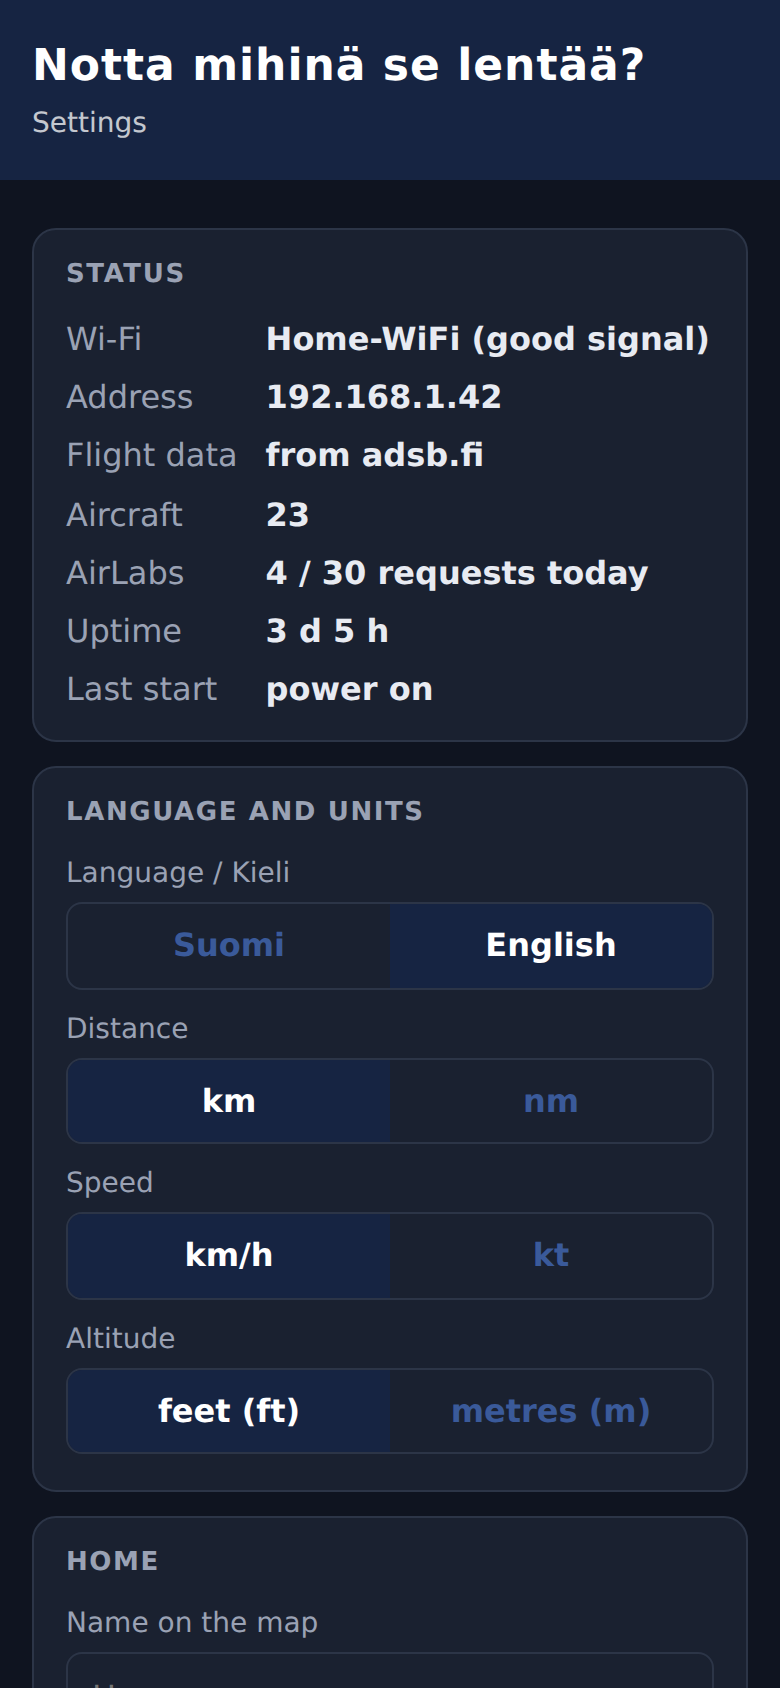
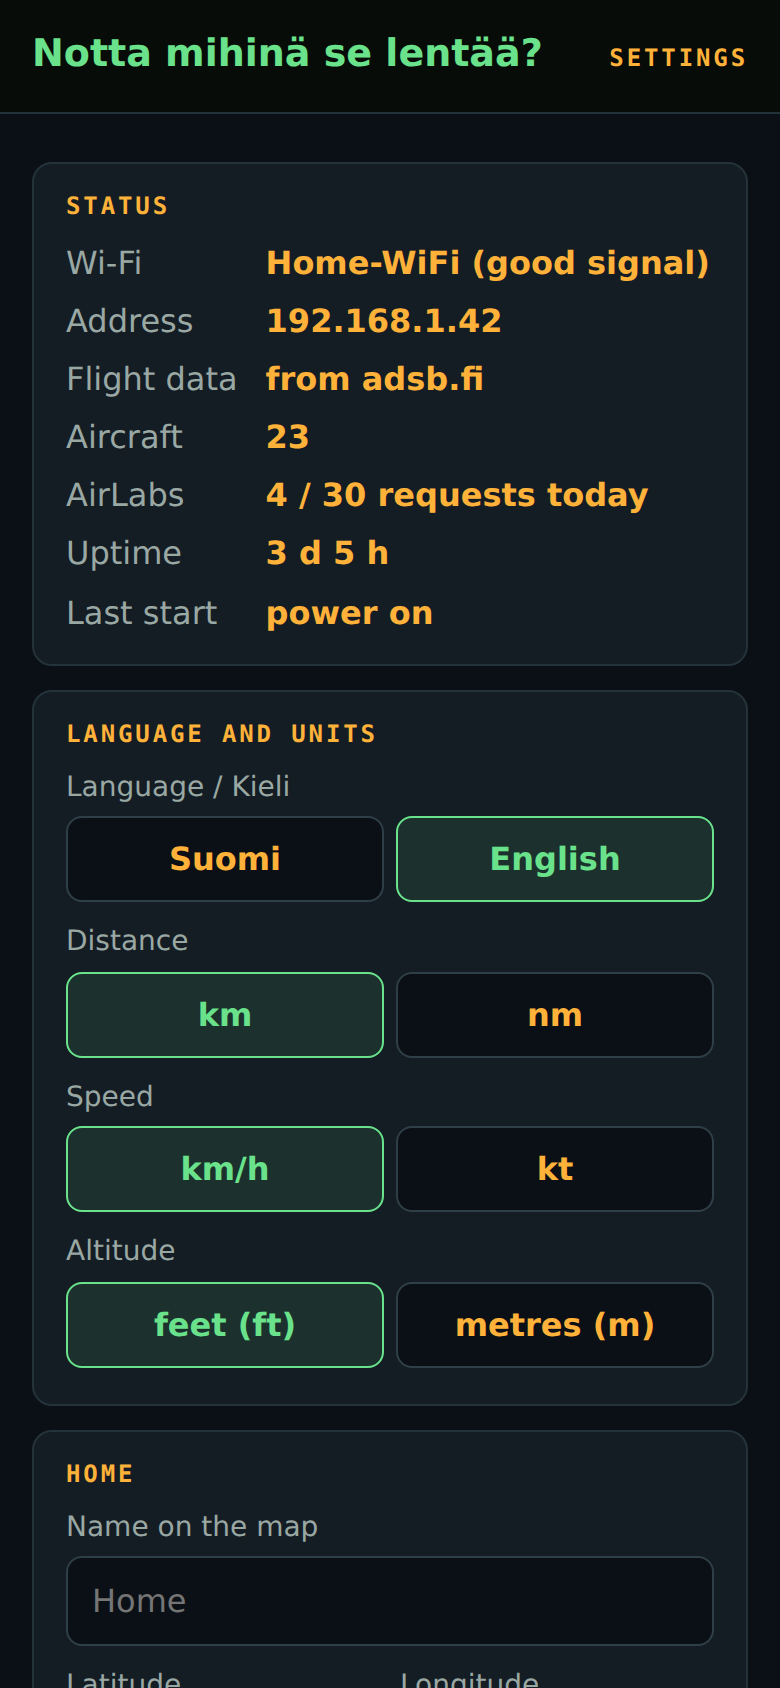
Phone settings page in the same amber and green as the screen

diff --git a/SkyTracker/web.cpp b/SkyTracker/web.cpp
@@ -118,25 +118,28 @@ const char* signalWord(int rssi) {
 }
 
 const char STYLE[] PROGMEM = R"CSS(
-:root{--navy:#162442;--accent:#e23a5e;--bg:#eef1f6;--card:#fff;--text:#1c202c;--text2:#686e7c;--line:#d6dae2;--good:#22a05a;--bad:#d61e1e}
-@media (prefers-color-scheme:dark){:root{--bg:#0f1420;--card:#1a2130;--text:#e8ebf2;--text2:#9aa2b4;--line:#2c3547;--navy:#3a5a9a}}
+:root{--bg:#0b1016;--card:#141d24;--field:#0b1016;--text:#e4ebe6;--text2:#9aa8a4;--line:#24323a;--line2:#2f3f47;--amber:#ffb239;--green:#6ae28b;--good:#6ae28b;--bad:#ff6b5e;color-scheme:dark}
 *{box-sizing:border-box}body{margin:0;background:var(--bg);color:var(--text);font:16px/1.45 system-ui,-apple-system,"Segoe UI",Roboto,sans-serif}
-header{background:#162442;color:#fff;padding:18px 16px}header h1{margin:0;font-size:22px;letter-spacing:.5px}header p{margin:2px 0 0;opacity:.75;font-size:14px}
+header{background:#080c08;border-bottom:1px solid var(--line);padding:14px 16px;display:flex;justify-content:space-between;align-items:baseline;gap:12px}
+header h1{margin:0;font-size:19px;font-weight:700;color:var(--green)}
+header p{margin:0;font:600 12px ui-monospace,Menlo,Consolas,monospace;letter-spacing:.12em;text-transform:uppercase;color:var(--amber)}
 main{max-width:560px;margin:0 auto;padding:12px 16px 32px}
-.card{background:var(--card);border:1px solid var(--line);border-radius:12px;padding:14px 16px;margin:12px 0}
-h2{font-size:13px;letter-spacing:.8px;text-transform:uppercase;color:var(--text2);margin:0 0 10px}
-dl{display:grid;grid-template-columns:auto 1fr;gap:6px 14px;margin:0}dt{color:var(--text2)}dd{margin:0;font-weight:600;overflow-wrap:anywhere}
+.card{background:var(--card);border:1px solid var(--line);border-radius:10px;padding:14px 16px;margin:12px 0}
+h2{font:600 12px ui-monospace,Menlo,Consolas,monospace;letter-spacing:.12em;text-transform:uppercase;color:var(--amber);margin:0 0 10px}
+dl{display:grid;grid-template-columns:auto 1fr;gap:6px 14px;margin:0}dt{color:var(--text2)}dd{margin:0;font-weight:600;color:var(--amber);overflow-wrap:anywhere}
 label.f{display:block;font-size:14px;color:var(--text2);margin:10px 0 4px}
-input[type=text],input[type=email],input[type=password],select{width:100%;font:inherit;padding:10px 12px;border:1px solid var(--line);border-radius:8px;background:var(--card);color:var(--text)}
+input[type=text],input[type=email],input[type=password],select{width:100%;font:inherit;padding:10px 12px;border:1px solid var(--line2);border-radius:8px;background:var(--field);color:var(--text)}
+input:focus,select:focus{outline:2px solid var(--amber);outline-offset:1px}
 .row{display:flex;gap:10px}.row>*{flex:1}
-.seg{display:flex;border:1px solid var(--line);border-radius:8px;overflow:hidden;margin-bottom:4px}.seg input{display:none}
-.seg label{flex:1;text-align:center;padding:9px 4px;cursor:pointer;font-weight:600;color:var(--navy)}
-.seg input:checked+label{background:#162442;color:#fff}
-.chk{display:flex;align-items:center;gap:10px;margin:6px 0;font-weight:600}.chk input{width:20px;height:20px}
+.seg{display:flex;gap:6px;margin-bottom:4px}.seg input{display:none}
+.seg label{flex:1;text-align:center;padding:9px 4px;cursor:pointer;font-weight:700;color:var(--amber);border:1px solid var(--line2);border-radius:8px;background:var(--field)}
+.seg input:checked+label{color:var(--green);border-color:var(--green);background:rgba(106,226,139,.10)}
+.chk{display:flex;align-items:center;gap:10px;margin:6px 0;font-weight:600}.chk input{width:20px;height:20px;accent-color:var(--green)}
 .help{font-size:13px;color:var(--text2);margin:8px 0 0}
-.msg{border-radius:10px;padding:12px 14px;margin:12px 0;font-weight:600}.ok{background:#e3f5ea;color:#16663a}.err{background:#fde8e8;color:#9b1c1c}
-button{width:100%;font:inherit;font-weight:700;padding:14px;border-radius:10px;border:0;cursor:pointer}
-.save{background:var(--accent);color:#fff;margin-top:4px}.ghost{background:transparent;color:var(--text2);border:1px solid var(--line);margin-top:12px}
+.msg{border-radius:10px;padding:12px 14px;margin:12px 0;font-weight:600;border:1px solid}.ok{background:rgba(106,226,139,.10);color:var(--green);border-color:rgba(106,226,139,.4)}.err{background:rgba(255,107,94,.10);color:var(--bad);border-color:rgba(255,107,94,.4)}
+button{width:100%;font:inherit;font-weight:700;letter-spacing:.05em;text-transform:uppercase;padding:14px;border-radius:10px;border:0;cursor:pointer}
+.save{background:var(--amber);color:#15110a;margin-top:4px}.ghost{background:transparent;color:var(--green);border:1px solid var(--green);margin-top:12px}
+a{color:var(--amber)}
 footer{font-size:12px;color:var(--text2);text-align:center;margin-top:24px}
 )CSS";
 
@@ -438,7 +441,7 @@ void handleRestart() {
   securityHeaders();
   server.send(200, "text/html; charset=utf-8",
               String("<!doctype html><meta charset=utf-8><meta name=viewport content='width=device-width,initial-scale=1'>"
-                     "<meta http-equiv=refresh content='20;url=/'><body style='font:18px system-ui;padding:24px'>") +
+                     "<meta http-equiv=refresh content='20;url=/'><body style='font:18px system-ui;padding:24px;background:#0b1016;color:#6ae28b'>") +
                   TR("Käynnistetään uudelleen… Sivu latautuu hetken kuluttua.",
                      "Restarting… The page will reload in a moment.") + "</body>");
   delay(500);
